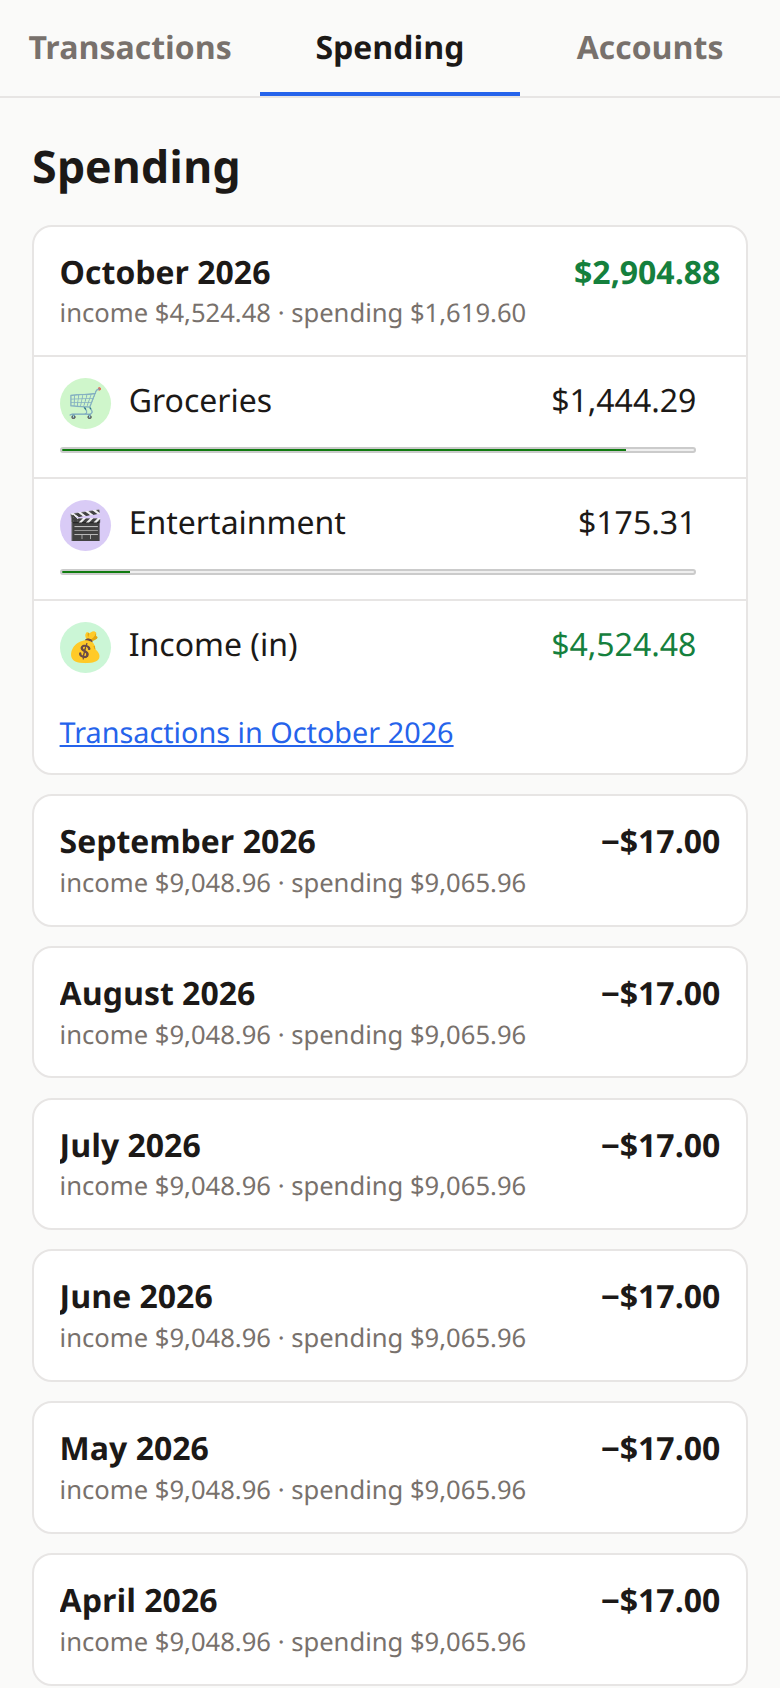
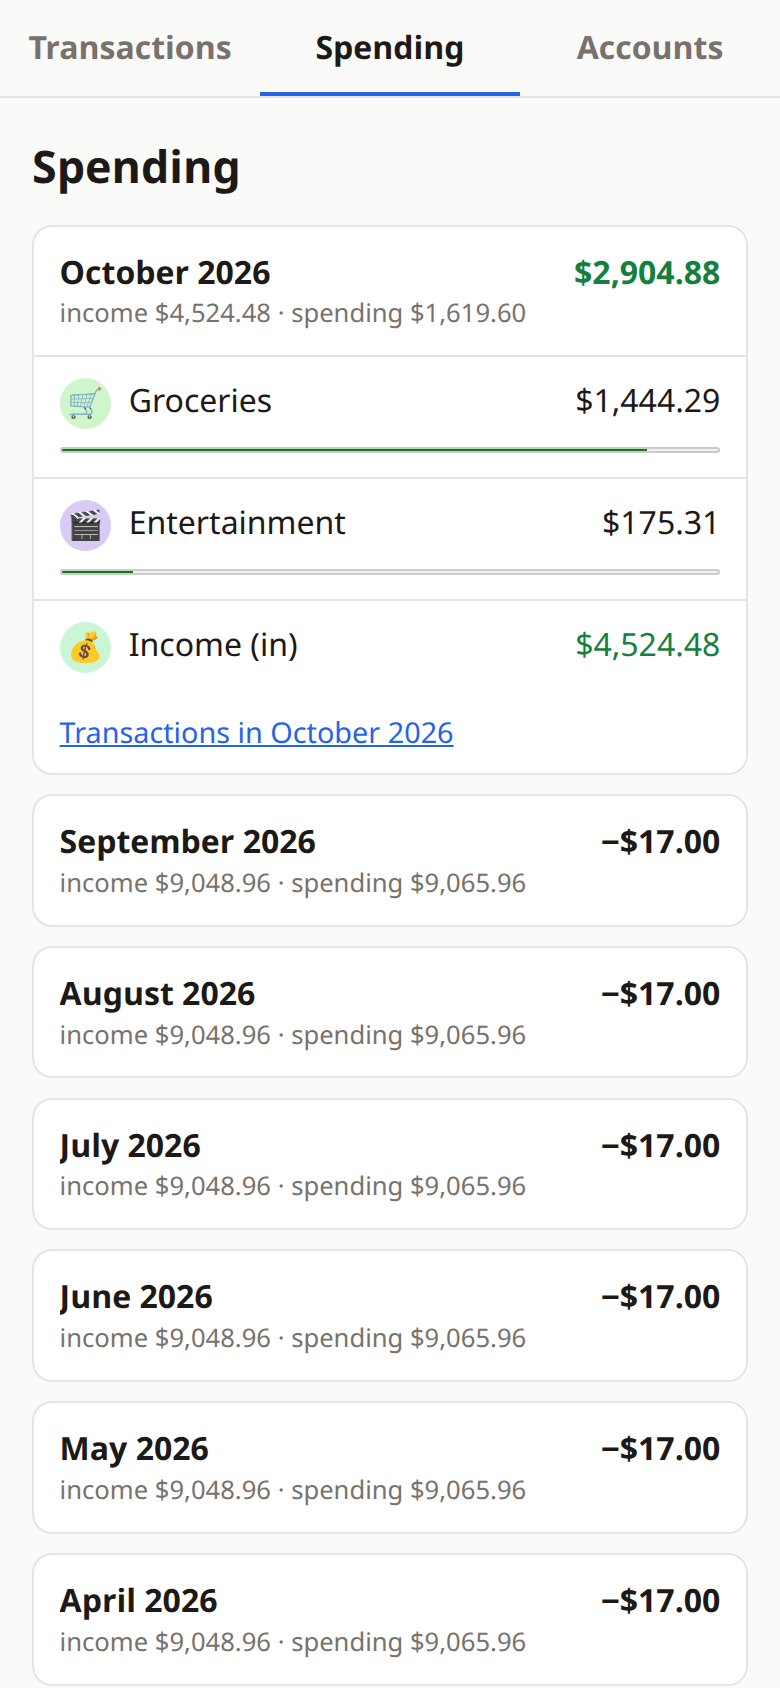
Accounts: tap an account to see its transactions
Rows link to /transactions?account=<id>; balances kept by hand and
accounts with no transactions aren't links. The linked rows' li is now
a plain block, which also fixes Spending's category amounts sitting
0.75rem short of the month's total.

Changed region(s): [[0.7385, 0.2773, 0.9231, 0.3389], [0.7077, 0.3697, 0.9231, 0.4005], [0.7077, 0.2156, 0.9231, 0.2464]]

diff --git a/internal/web/static/app.css b/internal/web/static/app.css
@@ -270,8 +270,10 @@ details.month > summary { padding: 0.75rem 0.8rem; font-weight: 600; }
 details.month > summary .meta { font-weight: 400; }
 details.month .list { border: 0; border-top: 1px solid var(--line); border-radius: 0; }
 details.month p { margin: 0; padding: 0.6rem 0.8rem; font-size: 0.9rem; }
-.cats > li { padding: 0; }
-.cats a.row {
+/* Rows that open the matching transactions (Spending categories, accounts).
+   The li is a plain block, so the link fills it edge to edge. */
+.cats > li, .accounts > li.acct { display: block; padding: 0; }
+.cats .row, .accounts .row {
   display: grid;
   grid-template-columns: 1fr auto;
   column-gap: 0.75rem;
@@ -280,7 +282,7 @@ details.month p { margin: 0; padding: 0.6rem 0.8rem; font-size: 0.9rem; }
   color: inherit;
   text-decoration: none;
 }
-.cats a.row:active { background: var(--line); }
+.cats a.row:active, .accounts a.row:active { background: var(--line); }
 .cats meter { grid-column: 1 / -1; width: 100%; height: 0.4rem; margin-top: 0.45rem; }
 
 /* Net worth: accounts grouped under their institution */

diff --git a/internal/web/templates/accounts.html b/internal/web/templates/accounts.html
@@ -23,13 +23,18 @@
     <span class="amt{{if neg .OrgTotal}} out{{end}}">{{money .OrgTotal .Currency}}</span>
   </li>
   {{- end}}
-  <li>
-    <span class="what">{{.Name}}</span>
-    <span class="amt{{if neg .Balance}} out{{end}}">{{money .Balance .Currency}}</span>
-    <span class="meta">{{if .AlsoUnder}}also under {{.AlsoUnder}} · {{end}}{{if not .InNetWorth}}not in net worth · {{end}}as of {{stamp .BalanceAt}}</span>
+  <li class="acct">
+    {{- if .HasTxns}}<a class="row" href="/transactions?account={{.ID}}">{{template "account" .}}</a>
+    {{- else}}<div class="row">{{template "account" .}}</div>{{end -}}
   </li>
   {{- else}}
   <li class="empty">No accounts yet.</li>
   {{- end}}
 </ul>
+{{- end}}
+
+{{define "account" -}}
+<span class="what">{{.Name}}</span>
+<span class="amt{{if neg .Balance}} out{{end}}">{{money .Balance .Currency}}</span>
+<span class="meta">{{if .AlsoUnder}}also under {{.AlsoUnder}} · {{end}}{{if not .InNetWorth}}not in net worth · {{end}}as of {{stamp .BalanceAt}}</span>
 {{- end}}

diff --git a/internal/web/data.go b/internal/web/data.go
@@ -24,6 +24,7 @@ type Account struct {
 	InNetWorth                       bool
 	OrgTotal                         string // the institution's accounts counted in net worth
 	AlsoUnder                        string // institutions whose duplicate copies were folded into this one
+	HasTxns                          bool   // false for balances kept by hand, and accounts with no activity
 }
 
 // shownAccount is the SQL test for accounts the app shows (alias a).
@@ -151,7 +152,8 @@ func (db *DB) Accounts(ctx context.Context) ([]Account, error) {
 		       round(coalesce(sum(a.balance) FILTER (WHERE a.include_in_net_worth)
 		                      OVER (PARTITION BY a.org_name), 0), 2)::text,
 		       coalesce((SELECT string_agg(DISTINCT d.org_name, ', ') FROM accounts d
-		                 WHERE d.duplicate_of = a.id AND d.org_name <> a.org_name), '')
+		                 WHERE d.duplicate_of = a.id AND d.org_name <> a.org_name), ''),
+		       EXISTS (SELECT 1 FROM transactions t WHERE t.account_id = a.id)
 		FROM accounts a WHERE `+shownAccount+`
 		ORDER BY lower(a.org_name), a.include_in_net_worth DESC, lower(coalesce(a.display_name, a.name))`)
 	if err != nil {
@@ -159,7 +161,7 @@ func (db *DB) Accounts(ctx context.Context) ([]Account, error) {
 	}
 	return pgx.CollectRows(rows, func(r pgx.CollectableRow) (Account, error) {
 		var a Account
-		err := r.Scan(&a.ID, &a.Name, &a.Org, &a.Currency, &a.Balance, &a.BalanceAt, &a.InNetWorth, &a.OrgTotal, &a.AlsoUnder)
+		err := r.Scan(&a.ID, &a.Name, &a.Org, &a.Currency, &a.Balance, &a.BalanceAt, &a.InNetWorth, &a.OrgTotal, &a.AlsoUnder, &a.HasTxns)
 		return a, err
 	})
 }

diff --git a/internal/web/web_test.go b/internal/web/web_test.go
@@ -194,6 +194,7 @@ func seed(t *testing.T) *DB {
 	exec(`INSERT INTO accounts (id, org_name, name, display_name, balance, balance_at, hidden, include_in_net_worth) VALUES
 		('chk', 'Test Bank', 'CHECKING 1234', 'Checking', 1000.50, now(), false, true),
 		('card', 'Test Bank', 'VISA 9876', NULL, -250.25, now(), false, true),
+		('idle', 'Test Bank', 'SAVINGS 5555', 'Rainy day', 0, now(), false, true),
 		('old', 'Old Bank', 'Closed', NULL, 999, now(), true, true)`)
 
 	now := time.Now().In(la)
@@ -383,6 +384,13 @@ func TestPages(t *testing.T) {
 		}
 		if strings.Contains(b, "Closed") {
 			t.Error("hidden account shown")
+		}
+		// Each account opens its transactions; one with none isn't a link.
+		if !strings.Contains(b, `<a class="row" href="/transactions?account=chk">`) {
+			t.Error("Checking doesn't link to its transactions")
+		}
+		if !strings.Contains(b, `<div class="row"><span class="what">Rainy day</span>`) || strings.Contains(b, "account=idle") {
+			t.Error("an account without transactions should not be a link")
 		}
 	})
 }
